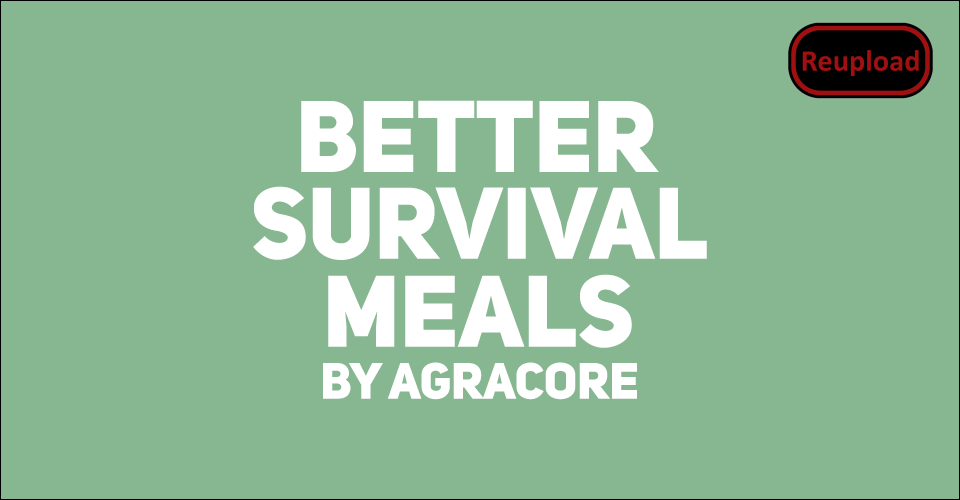
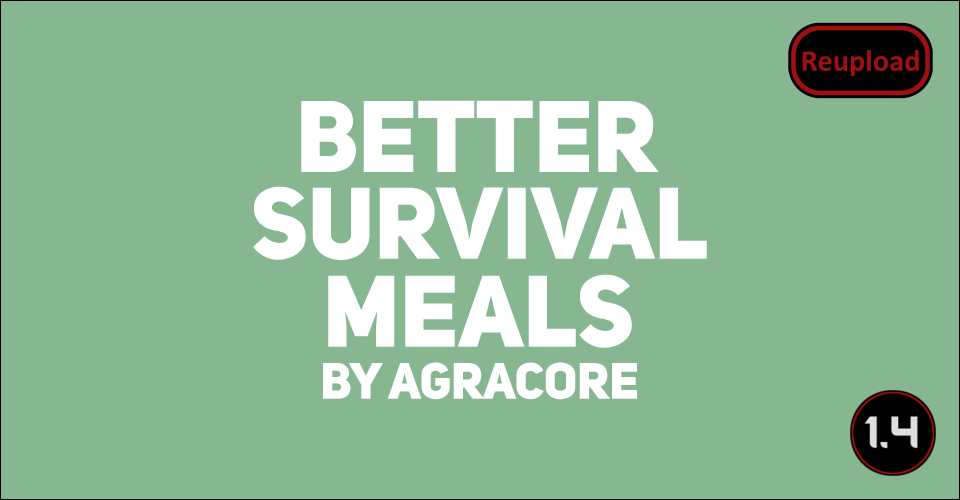
Traders should now be able to buy/sell the extra meals. Also added a category for them

Changed region(s): [[0.875, 0.78, 1.0, 0.96]]

diff --git a/README.md b/README.md
@@ -9,6 +9,8 @@ https://steamcommunity.com/sharedfiles/filedetails/?id=1716979038
 - Replaced the old xml-defs with patching to avoid overwrite vanilla definitions for meal and stoves
 - Added stack-version of the meal-icon, the same as vanilla behaviour
 - Removed the extra thought-definitions since they were identical to the normal "ate fine/lavish meal" in terms of values
+- If ideology is loaded there are also vegetarian and carnivore variants
+- Updated the graphics to make them more distinct
 
 ![Image](https://i.imgur.com/pufA0kM.png)
 
@@ -79,10 +81,13 @@ Features include:
 
 -  See if the the error persists if you just have this mod and its requirements active.
 -  If not, try adding your other mods until it happens again.
--  Post your error-log using https://steamcommunity.com/workshop/filedetails/?id=818773962]HugsLib and command Ctrl+F12
+-  Post your error-log using https://steamcommunity.com/workshop/filedetails/?id=818773962]HugsLib or the standalone https://steamcommunity.com/sharedfiles/filedetails/?id=2873415404]Uploader and command Ctrl+F12
 -  For best support, please use the Discord-channel for error-reporting.
 -  Do not report errors by making a discussion-thread, I get no notification of that.
 -  If you have the solution for a problem, please post it to the GitHub repository.
+-  Use https://github.com/RimSort/RimSort/releases/latest]RimSort to sort your mods
 
 
-https://steamcommunity.com/sharedfiles/filedetails/changelog/2063417558]Last updated 2023-05-24
+
+https://steamcommunity.com/sharedfiles/filedetails/changelog/2063417558]![Image](https://img.shields.io/github/v/release/emipa606/BetterSurvivalMeals?label=latest%20version&style=plastic&color=9f1111&labelColor=black)
+
